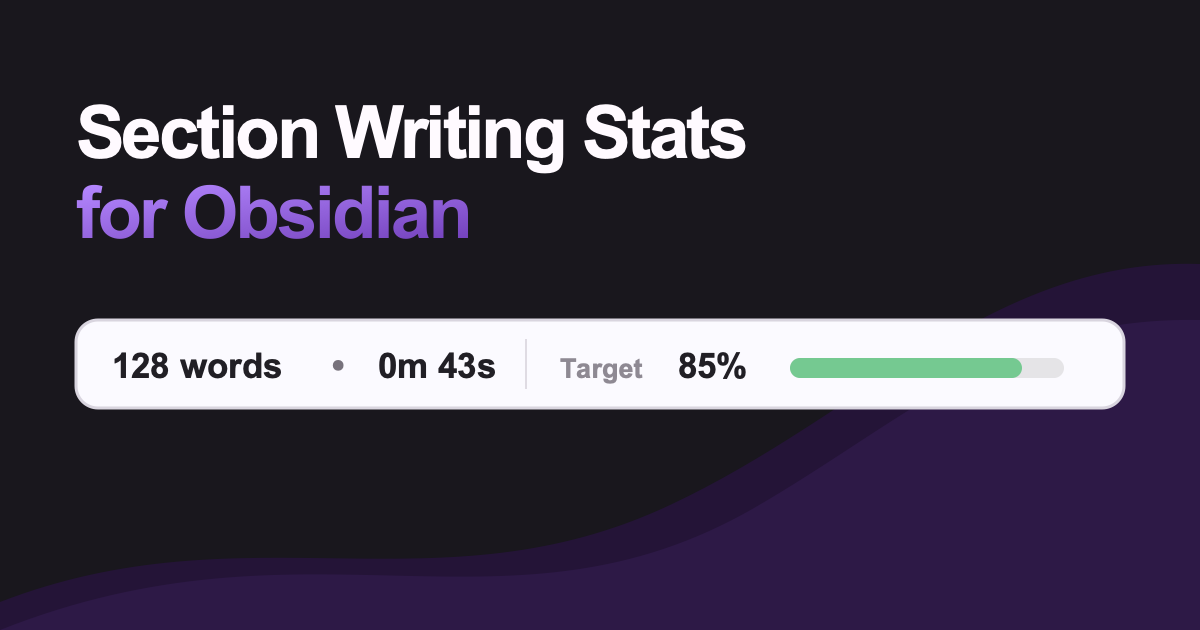
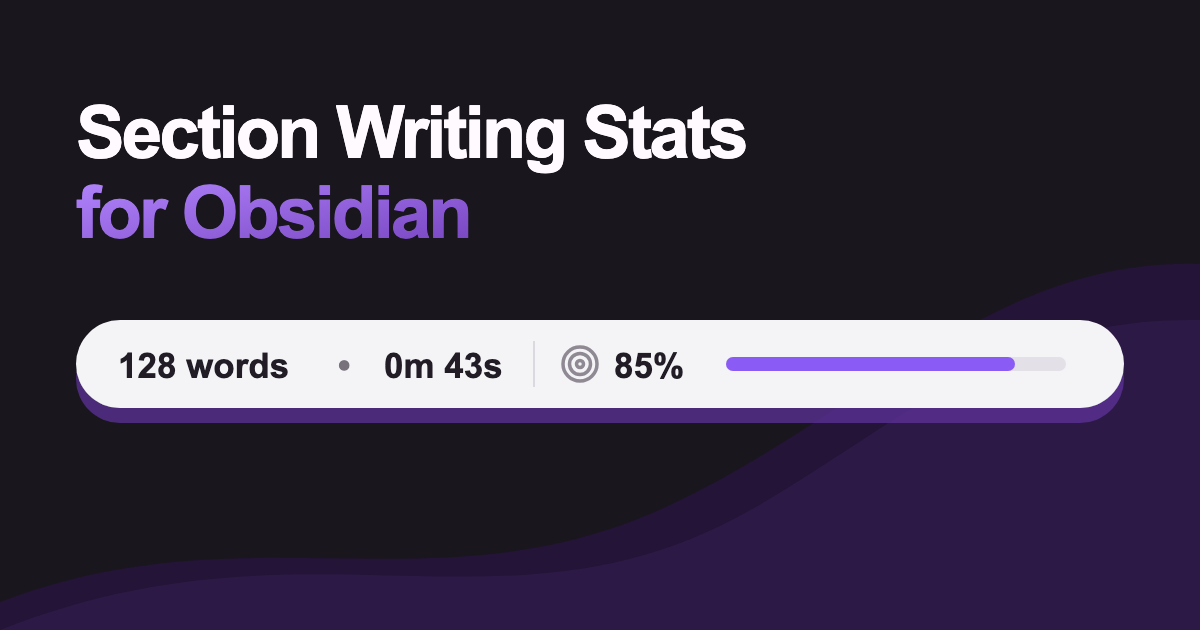
Match the site to Section Writing Stats 1.5.0
- Restyle badges as soft pills with a target icon, accent progress,
  a green check when reached, and orange when over.
- Show the demo's target line as a chip that reveals the typed line
  when clicked or when the cursor moves onto it, and read the target
  from the line instead of a fixed 120 characters.
- Refresh the hero screenshot and the social card, and version the
  card URL so link previews pick up the new image.
- Mention Reading view and the title badge's position.

diff --git a/index.html b/index.html
@@ -11,15 +11,15 @@
     <meta property="og:title" content="Section Writing Stats for Obsidian - Word Counts & Writing Targets" />
     <meta property="og:description" content="Live word counts, character counts, reading-time estimates, and writing targets for every Markdown heading in Obsidian." />
     <meta property="og:url" content="https://martinowong.github.io/section-writing-stats-site/" />
-    <meta property="og:image" content="https://martinowong.github.io/section-writing-stats-site/images/section-writing-stats-x-card.png" />
-    <meta property="og:image:secure_url" content="https://martinowong.github.io/section-writing-stats-site/images/section-writing-stats-x-card.png" />
+    <meta property="og:image" content="https://martinowong.github.io/section-writing-stats-site/images/section-writing-stats-x-card.png?v=1.5.0" />
+    <meta property="og:image:secure_url" content="https://martinowong.github.io/section-writing-stats-site/images/section-writing-stats-x-card.png?v=1.5.0" />
     <meta property="og:image:width" content="1200" />
     <meta property="og:image:height" content="630" />
     <meta property="og:image:alt" content="Section Writing Stats for Obsidian, showing live word counts, character counts, reading time, and writing targets." />
     <meta name="twitter:card" content="summary_large_image" />
     <meta name="twitter:title" content="Section Writing Stats for Obsidian - Word Counts & Writing Targets" />
     <meta name="twitter:description" content="Live word counts, character counts, reading-time estimates, and writing targets for every Markdown heading in Obsidian." />
-    <meta name="twitter:image" content="https://martinowong.github.io/section-writing-stats-site/images/section-writing-stats-x-card.png" />
+    <meta name="twitter:image" content="https://martinowong.github.io/section-writing-stats-site/images/section-writing-stats-x-card.png?v=1.5.0" />
     <meta name="twitter:image:alt" content="Section Writing Stats for Obsidian, showing live word counts, character counts, reading time, and writing targets." />
     <title>Section Writing Stats for Obsidian - Word Counts & Writing Targets</title>
     <link rel="stylesheet" href="landing.css" />
@@ -86,13 +86,18 @@
               <span>#</span><strong>Opening scene</strong>
               <span class="section-meter-badge section-meter-target-badge section-meter-target-start" aria-live="polite">
                 <output class="section-meter-badge-label" id="demo-badge">10 words · 59 characters · 3s</output>
-                <span class="section-meter-target-group"><span class="section-meter-target-caption">Target</span><span class="section-meter-target-label" id="demo-target-count">8%</span><span class="section-meter-target-progress"><i class="section-meter-target-progress-fill" id="demo-progress-fill"></i></span></span>
+                <span class="section-meter-target-group" id="demo-target-group"><span class="section-meter-target-caption"><svg viewBox="0 0 24 24" aria-hidden="true"><circle cx="12" cy="12" r="10"/><circle cx="12" cy="12" r="6"/><circle cx="12" cy="12" r="2"/></svg><span class="sr-only">Target</span></span><span class="section-meter-target-label" id="demo-target-count">8%</span><span class="section-meter-target-progress"><i class="section-meter-target-progress-fill" id="demo-progress-fill"></i></span></span>
               </span>
             </div>
             <label class="sr-only" for="demo-writing">Try writing a section</label>
-            <textarea id="demo-writing" spellcheck="true">Target: 120 characters
+            <div class="try-editor-body">
+              <textarea id="demo-writing" spellcheck="true">Target: 120 characters
 
 </textarea>
+              <div class="demo-target-line" id="demo-target-line" hidden>
+                <button type="button" class="demo-target-chip" id="demo-target-chip"><span class="demo-target-chip-icon"><svg viewBox="0 0 24 24" aria-hidden="true"><circle cx="12" cy="12" r="10"/><circle cx="12" cy="12" r="6"/><circle cx="12" cy="12" r="2"/></svg></span><span class="demo-target-chip-caption">Target</span><span class="demo-target-chip-value" id="demo-target-chip-value">120 characters</span></button>
+              </div>
+            </div>
             <div class="try-footer">
               <button type="button" id="demo-reset">Reset example</button>
             </div>
@@ -108,7 +113,7 @@
           <article class="feature feature-primary reveal">
             <div>
               <h3>Live stats where you want them</h3>
-              <p>Show live statistics beside Markdown headings, beside the note title, or in the status bar.</p>
+              <p>Show live statistics beside Markdown headings, below the note title, or in the status bar, in both the editor and Reading view.</p>
             </div>
           </article>
           <article class="feature reveal">
@@ -134,7 +139,7 @@
         </div>
         <div class="markdown-sample reveal reveal-late" aria-label="Example Markdown writing target">
           <div class="sample-bar"><span>draft.md</span><span>Markdown</span></div>
-          <div class="sample-heading"><span>#</span><strong>Opening scene</strong><span class="section-meter-badge section-meter-target-badge section-meter-target-mid"><span class="section-meter-badge-label">412 words</span><span class="section-meter-target-group"><span class="section-meter-target-caption">Target</span><span class="section-meter-target-label">55%</span><span class="section-meter-target-progress"><i class="section-meter-target-progress-fill" style="width: 55%"></i></span></span></span></div>
+          <div class="sample-heading"><span>#</span><strong>Opening scene</strong><span class="section-meter-badge section-meter-target-badge section-meter-target-mid"><span class="section-meter-badge-label">412 words</span><span class="section-meter-target-group"><span class="section-meter-target-caption"><svg viewBox="0 0 24 24" aria-hidden="true"><circle cx="12" cy="12" r="10"/><circle cx="12" cy="12" r="6"/><circle cx="12" cy="12" r="2"/></svg><span class="sr-only">Target</span></span><span class="section-meter-target-label">55%</span><span class="section-meter-target-progress"><i class="section-meter-target-progress-fill" style="width: 55%"></i></span></span></span></div>
           <pre><code><span class="syntax-target">Target: 750 words</span>
 
 The first paragraph begins here. The target
@@ -226,30 +231,65 @@ track of the writing.</code></pre>
       let demoTypingTimer;
       let isDemoTyping = false;
 
+      const targetGroup = document.querySelector("#demo-target-group");
+      const targetLine = document.querySelector("#demo-target-line");
+      const targetChip = document.querySelector("#demo-target-chip");
+      const targetChipValue = document.querySelector("#demo-target-chip-value");
+      const targetStates = ["section-meter-target-start", "section-meter-target-mid", "section-meter-target-close", "section-meter-target-complete", "section-meter-target-overage"];
+
+      // Mirrors the plugin's syntax: a standalone line such as "Target: 120 characters" or "target 250w".
+      function parseDemoTarget(line) {
+        const match = /^target(?:[ \t]*:[ \t]*|[ \t]+)((?:[1-9]\d{0,2}(?:,\d{3})+)|\d+)[ \t]*(w|words?|chars?|characters?)$/i.exec(line.trim());
+        const value = match ? Number(match[1].replace(/,/g, "")) : 0;
+        return value > 0 ? { value, metric: /^w/i.test(match[2]) ? "words" : "characters" } : null;
+      }
+
+      function firstLineEnd() {
+        const end = writing.value.indexOf("\n");
+        return end === -1 ? writing.value.length : end;
+      }
+
+      // Like Live Preview: the target line shows as a chip unless the cursor is on it.
+      function updateDemoChip() {
+        const target = parseDemoTarget(writing.value.slice(0, firstLineEnd()));
+        const editingTargetLine = document.activeElement === writing && writing.selectionStart <= firstLineEnd();
+        targetLine.hidden = !target || editingTargetLine || writing.scrollTop > 0;
+        if (target) targetChipValue.textContent = `${target.value.toLocaleString("en-US")} ${target.metric}`;
+      }
+
       function updateDemoBadge() {
-        const text = writing.value.replace(/^Target:\s*.*$/gim, "").trim();
+        const lines = writing.value.split("\n");
+        const target = parseDemoTarget(lines[0]);
+        const text = lines.filter((line) => !parseDemoTarget(line)).join("\n").trim();
         const words = text ? text.split(/\s+/).length : 0;
         const characters = text.length;
         const seconds = Math.max(0, Math.round((words / 220) * 60));
         badge.textContent = `${words} ${words === 1 ? "word" : "words"} · ${characters} characters · ${seconds}s`;
-        const percent = Math.min(Math.round((characters / 120) * 100), 100);
-        document.querySelector("#demo-target-count").textContent = `${percent}%`;
-        document.querySelector("#demo-progress-fill").style.width = `${percent}%`;
-        const targetState = characters > 120
-          ? "section-meter-target-overage"
-          : percent >= 100
-            ? "section-meter-target-complete"
-            : percent >= 80
-              ? "section-meter-target-close"
-              : percent >= 50
-                ? "section-meter-target-mid"
-                : "section-meter-target-start";
-        const targetStates = ["section-meter-target-start", "section-meter-target-mid", "section-meter-target-close", "section-meter-target-complete", "section-meter-target-overage"];
         targetBadge.classList.remove(...targetStates);
         targetProgress.classList.remove(...targetStates);
-        targetBadge.classList.add(targetState);
-        targetProgress.classList.add(targetState);
+        targetGroup.hidden = !target;
+        if (target) {
+          const current = target.metric === "words" ? words : characters;
+          const percent = Math.round((current / target.value) * 100);
+          document.querySelector("#demo-target-count").textContent = `${percent}%`;
+          document.querySelector("#demo-progress-fill").style.width = `${Math.min(percent, 100)}%`;
+          const targetState = current >= target.value * 1.25
+            ? "section-meter-target-overage"
+            : current >= target.value
+              ? "section-meter-target-complete"
+              : "section-meter-target-start";
+          targetBadge.classList.add(targetState);
+          targetProgress.classList.add(targetState);
+        }
+        updateDemoChip();
       }
+
+      targetChip.addEventListener("click", () => {
+        writing.focus();
+        writing.setSelectionRange(firstLineEnd(), firstLineEnd());
+        updateDemoChip();
+      });
+      ["focus", "blur", "click", "keyup", "select", "scroll"].forEach((type) => writing.addEventListener(type, updateDemoChip));
 
       const playDemoTypewriter = () => {
         window.clearTimeout(demoTypingTimer);

diff --git a/landing.css b/landing.css
@@ -135,11 +135,12 @@ h1 { max-width: 680px; margin-bottom: 26px; font-size: clamp(3rem, 5vw, 4.65rem)
 .outline-copy h2 { margin: 0 0 24px; font-size: clamp(3rem, 5vw, 5.4rem); font-weight: 650; letter-spacing: -0.065em; line-height: 0.96; }
 .outline-copy > p:not(.overline) { max-width: 430px; color: var(--muted); font-size: 1.08rem; line-height: 1.6; }
 .try-editor { overflow: hidden; border: 1px solid var(--line); border-radius: var(--radius); background: var(--surface); box-shadow: 0 22px 64px rgb(0 0 0 / 0.16); }
-.hero-editor { --background-modifier-border: #dedede; --background-secondary: #f2f2f2; --text-muted: #6d6d6d; --text-normal: #292929; --text-faint: #949494; --color-yellow: #d9ae18; --color-green: #4f9b69; --color-red: #d95763; --line: #dedede; min-height: 0; border-color: #cecece; border-radius: 12px 10px 12px 10px; background: #fff; color: var(--text-normal); box-shadow: 7px 8px 0 rgb(92 59 142 / 0.18), 0 22px 48px rgb(0 0 0 / 0.14); }
+.hero-editor { --background-modifier-border: #dedede; --background-secondary: #f2f2f2; --text-muted: #6d6d6d; --text-normal: #292929; --text-faint: #949494; --interactive-accent: #8a5cf5; --color-green: #3f9a5c; --color-orange: #d9781f; --line: #dedede; min-height: 0; border-color: #cecece; border-radius: 12px 10px 12px 10px; background: #fff; color: var(--text-normal); box-shadow: 7px 8px 0 rgb(92 59 142 / 0.18), 0 22px 48px rgb(0 0 0 / 0.14); }
 .try-editor-bar, .try-footer { display: flex; align-items: center; justify-content: space-between; gap: 15px; padding: 12px 16px; background: #f8f8f8; color: var(--text-muted); font-size: 0.75rem; }
 .try-editor-bar { border-bottom: 1px solid var(--line); }.try-tab { display: inline-flex; align-items: center; gap: 8px; color: var(--muted); }.try-tab i { width: 8px; height: 8px; border-radius: 2px; border: 1px solid var(--accent); }.try-mode { color: var(--accent-soft); }
 .try-heading-row { display: flex; flex-wrap: wrap; align-items: center; gap: 9px; padding: 22px 22px 14px; letter-spacing: -0.025em; }.try-heading-row > span { color: var(--text-faint); font-weight: 750; }.try-heading-row strong { color: var(--text-normal); font-size: 1.12rem; }.try-heading-row .section-meter-badge { margin-left: auto; font-size: 0.816em; }
-.section-meter-badge { display: inline-flex; align-items: center; gap: 0.35em; margin-inline-start: 0.5em; padding: 0.05em 0.4em; border: 1px solid var(--background-modifier-border, rgb(255 255 255 / 0.15)); border-radius: 6px; color: var(--text-muted, var(--muted)); background: var(--background-secondary, rgb(255 255 255 / 0.06)); font-size: 0.68em; font-weight: 500; line-height: 1.4; vertical-align: middle; white-space: nowrap; }.section-meter-badge-label { min-inline-size: 0; }.section-meter-target-badge { color: var(--text-normal, var(--text)); }.section-meter-target-group { display: inline-flex; min-inline-size: 0; align-items: center; gap: 0.4em; padding-inline-start: 0.55em; border-inline-start: 1px solid var(--background-modifier-border, rgb(255 255 255 / 0.15)); }.section-meter-target-caption { color: var(--text-faint, var(--faint)); font-size: 0.9em; }.section-meter-target-label { color: var(--text-muted, var(--muted)); }.section-meter-target-progress { display: inline-flex; inline-size: 3.5em; block-size: 0.35em; overflow: hidden; flex: none; border-radius: 999px; background: var(--background-modifier-border, rgb(255 255 255 / 0.15)); }.section-meter-target-progress-fill { display: block; block-size: 100%; border-radius: inherit; background: var(--text-faint, var(--faint)); transition: width 360ms cubic-bezier(.16, 1, .3, 1), background 160ms ease; }.section-meter-target-start .section-meter-target-progress-fill { background: var(--text-faint, var(--faint)); }.section-meter-target-mid .section-meter-target-progress-fill { background: var(--color-yellow, #d8b450); }.section-meter-target-close .section-meter-target-progress-fill { background: var(--color-green, #7ac786); opacity: 0.62; }.section-meter-target-complete .section-meter-target-progress-fill { background: var(--color-green, #7ac786); }.section-meter-target-overage .section-meter-target-progress-fill { background: var(--color-red, #e65b6d); }
+.section-meter-badge { display: inline-flex; align-items: center; gap: 0.45em; margin-inline-start: 0.5em; padding: 0.14em 0.7em; border: 0; border-radius: 999px; color: var(--text-muted, var(--muted)); background: var(--background-secondary, rgb(255 255 255 / 0.06)); font-size: 0.68em; font-weight: 500; font-variant-numeric: tabular-nums; line-height: 1.45; vertical-align: middle; white-space: nowrap; }.section-meter-badge-label { min-inline-size: 0; }.section-meter-target-group { display: inline-flex; min-inline-size: 0; align-items: center; gap: 0.4em; padding-inline-start: 0.6em; border-inline-start: 1px solid var(--background-modifier-border, rgb(255 255 255 / 0.15)); }.section-meter-target-group[hidden] { display: none; }.section-meter-target-caption, .demo-target-chip-icon { display: inline-flex; color: var(--text-faint, var(--faint)); }.section-meter-target-caption svg, .demo-target-chip-icon svg { width: 1.1em; height: 1.1em; fill: none; stroke: currentColor; stroke-width: 2.25; }.section-meter-target-label { color: var(--text-normal, var(--text)); }.section-meter-target-progress { display: inline-flex; inline-size: 3.25em; block-size: 0.3em; overflow: hidden; flex: none; border-radius: 999px; background: var(--background-modifier-border, rgb(255 255 255 / 0.15)); }.section-meter-target-progress-fill { display: block; block-size: 100%; border-radius: inherit; background: var(--interactive-accent, #a882ff); transition: width 360ms cubic-bezier(.16, 1, .3, 1), background 160ms ease; }.section-meter-target-complete .section-meter-target-progress-fill { background: var(--color-green, #7ac786); }.section-meter-target-overage .section-meter-target-progress-fill { background: var(--color-orange, #ec9a4c); }.section-meter-target-complete .section-meter-target-label { color: var(--color-green, #7ac786); }.section-meter-target-complete .section-meter-target-label::before { content: "\2713\00a0"; }.section-meter-target-overage .section-meter-target-label { color: var(--color-orange, #ec9a4c); }
+.try-editor-body { position: relative; }.demo-target-line { position: absolute; top: 9px; right: 0; left: 0; height: 1.7rem; display: flex; align-items: center; padding: 0 22px; background: #fff; }.demo-target-line[hidden] { display: none; }.try-editor textarea:focus ~ .demo-target-line { background: #fcfcfc; }.demo-target-chip { display: inline-flex; align-items: center; gap: 0.4em; padding: 0.2em 0.75em; border: 0; border-radius: 999px; background: var(--background-secondary, #f2f2f2); color: var(--text-muted, var(--muted)); font: 500 0.82rem/1.4 -apple-system, BlinkMacSystemFont, "Segoe UI", sans-serif; font-variant-numeric: tabular-nums; cursor: pointer; }.demo-target-chip:hover { background: #e9e9e9; color: var(--text-normal); }.demo-target-chip:focus-visible { outline: 2px solid var(--accent-soft); outline-offset: 2px; }.demo-target-chip-icon { color: var(--interactive-accent, #8a5cf5); }.demo-target-chip-value { color: var(--text-normal, var(--text)); }
 .try-editor textarea { width: 100%; min-height: 132px; display: block; resize: vertical; padding: 9px 22px 24px; border: 0; outline: 0; background: transparent; color: var(--text-normal, var(--text)); font: 1rem/1.7 ui-monospace, SFMono-Regular, Menlo, Consolas, monospace; }.try-editor textarea:focus { background: #fcfcfc; }
 .try-footer { border-top: 1px solid var(--background-modifier-border, var(--line)); }.try-footer button { padding: 0; border: 0; background: none; color: #6a4c93; font: inherit; font-weight: 650; cursor: pointer; }.try-footer button:hover { color: #3e2e5d; }.try-footer button:focus-visible, .outline-row:focus-visible { outline: 2px solid var(--accent-soft); outline-offset: -2px; }
 
@@ -149,7 +150,7 @@ h1 { max-width: 680px; margin-bottom: 26px; font-size: clamp(3rem, 5vw, 4.65rem)
 .target-section { width: min(100% - 48px, 1280px); margin: 0 auto; display: grid; grid-template-columns: minmax(300px, 0.88fr) minmax(420px, 1.12fr); gap: clamp(50px, 11vw, 170px); align-items: center; padding: 124px 0 156px; border-top: 1px solid var(--line); }
 .target-copy h2 { margin-bottom: 25px; }
 .target-copy > p:not(.overline) { max-width: 450px; color: var(--muted); font-size: 1.08rem; line-height: 1.6; }.target-copy code { padding: 0.08em 0.3em; border: 1px solid rgb(223 204 255 / 0.24); border-radius: 4px; background: rgb(184 140 255 / 0.1); color: var(--accent-soft); font: 0.88em ui-monospace, SFMono-Regular, Menlo, Consolas, monospace; }
-.markdown-sample { --background-modifier-border: rgb(255 255 255 / 0.12); --background-secondary: #292331; --text-muted: #b8b1bf; --text-normal: #f1edf5; --text-faint: #817a89; --color-yellow: #d8b450; overflow: hidden; border: 1px solid var(--line); border-radius: var(--radius); background: var(--surface); box-shadow: 0 22px 64px rgb(0 0 0 / 0.16); }
+.markdown-sample { --background-modifier-border: rgb(255 255 255 / 0.12); --background-secondary: #292331; --text-muted: #b8b1bf; --text-normal: #f1edf5; --text-faint: #817a89; --interactive-accent: #a882ff; overflow: hidden; border: 1px solid var(--line); border-radius: var(--radius); background: var(--surface); box-shadow: 0 22px 64px rgb(0 0 0 / 0.16); }
 .sample-bar, .sample-footer { display: flex; justify-content: space-between; gap: 20px; padding: 13px 17px; color: var(--faint); font-size: 0.76rem; }
 .sample-bar { border-bottom: 1px solid var(--line); }
 .sample-heading { display: flex; flex-wrap: wrap; align-items: center; gap: 9px; padding: 22px 24px 8px; letter-spacing: -0.025em; }.sample-heading > span:first-child { color: var(--faint); font-weight: 750; }.sample-heading strong { font-size: 1.12rem; }.sample-heading .section-meter-badge { margin-left: auto; }
@@ -269,3 +270,4 @@ footer > span:first-child { color: var(--muted); font-weight: 650; }
 }
 
 .sr-only { position: absolute; width: 1px; height: 1px; padding: 0; overflow: hidden; clip: rect(0, 0, 0, 0); white-space: nowrap; border: 0; }
+@media (prefers-reduced-motion: reduce) { .section-meter-target-progress-fill { transition: none; } }
